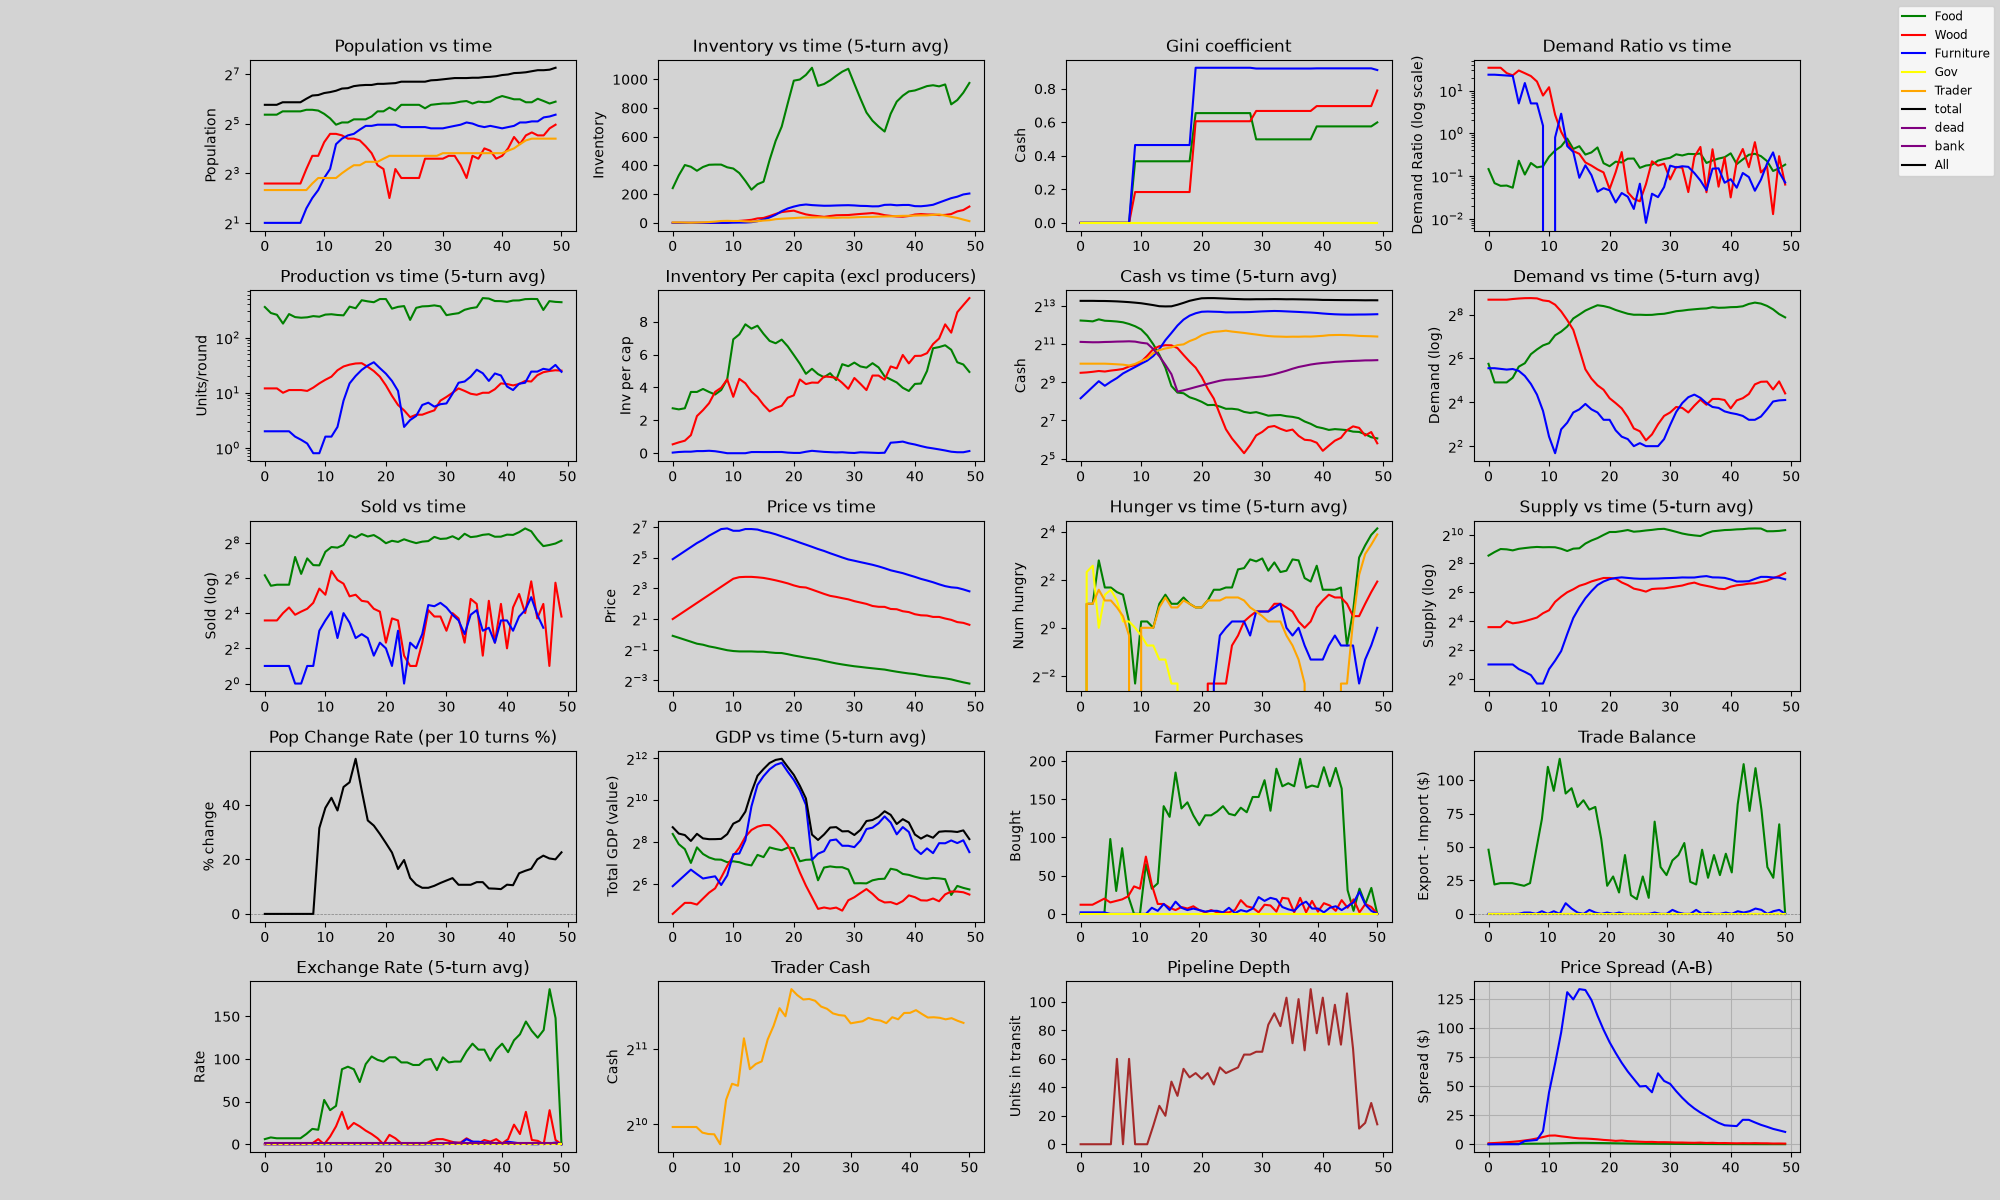
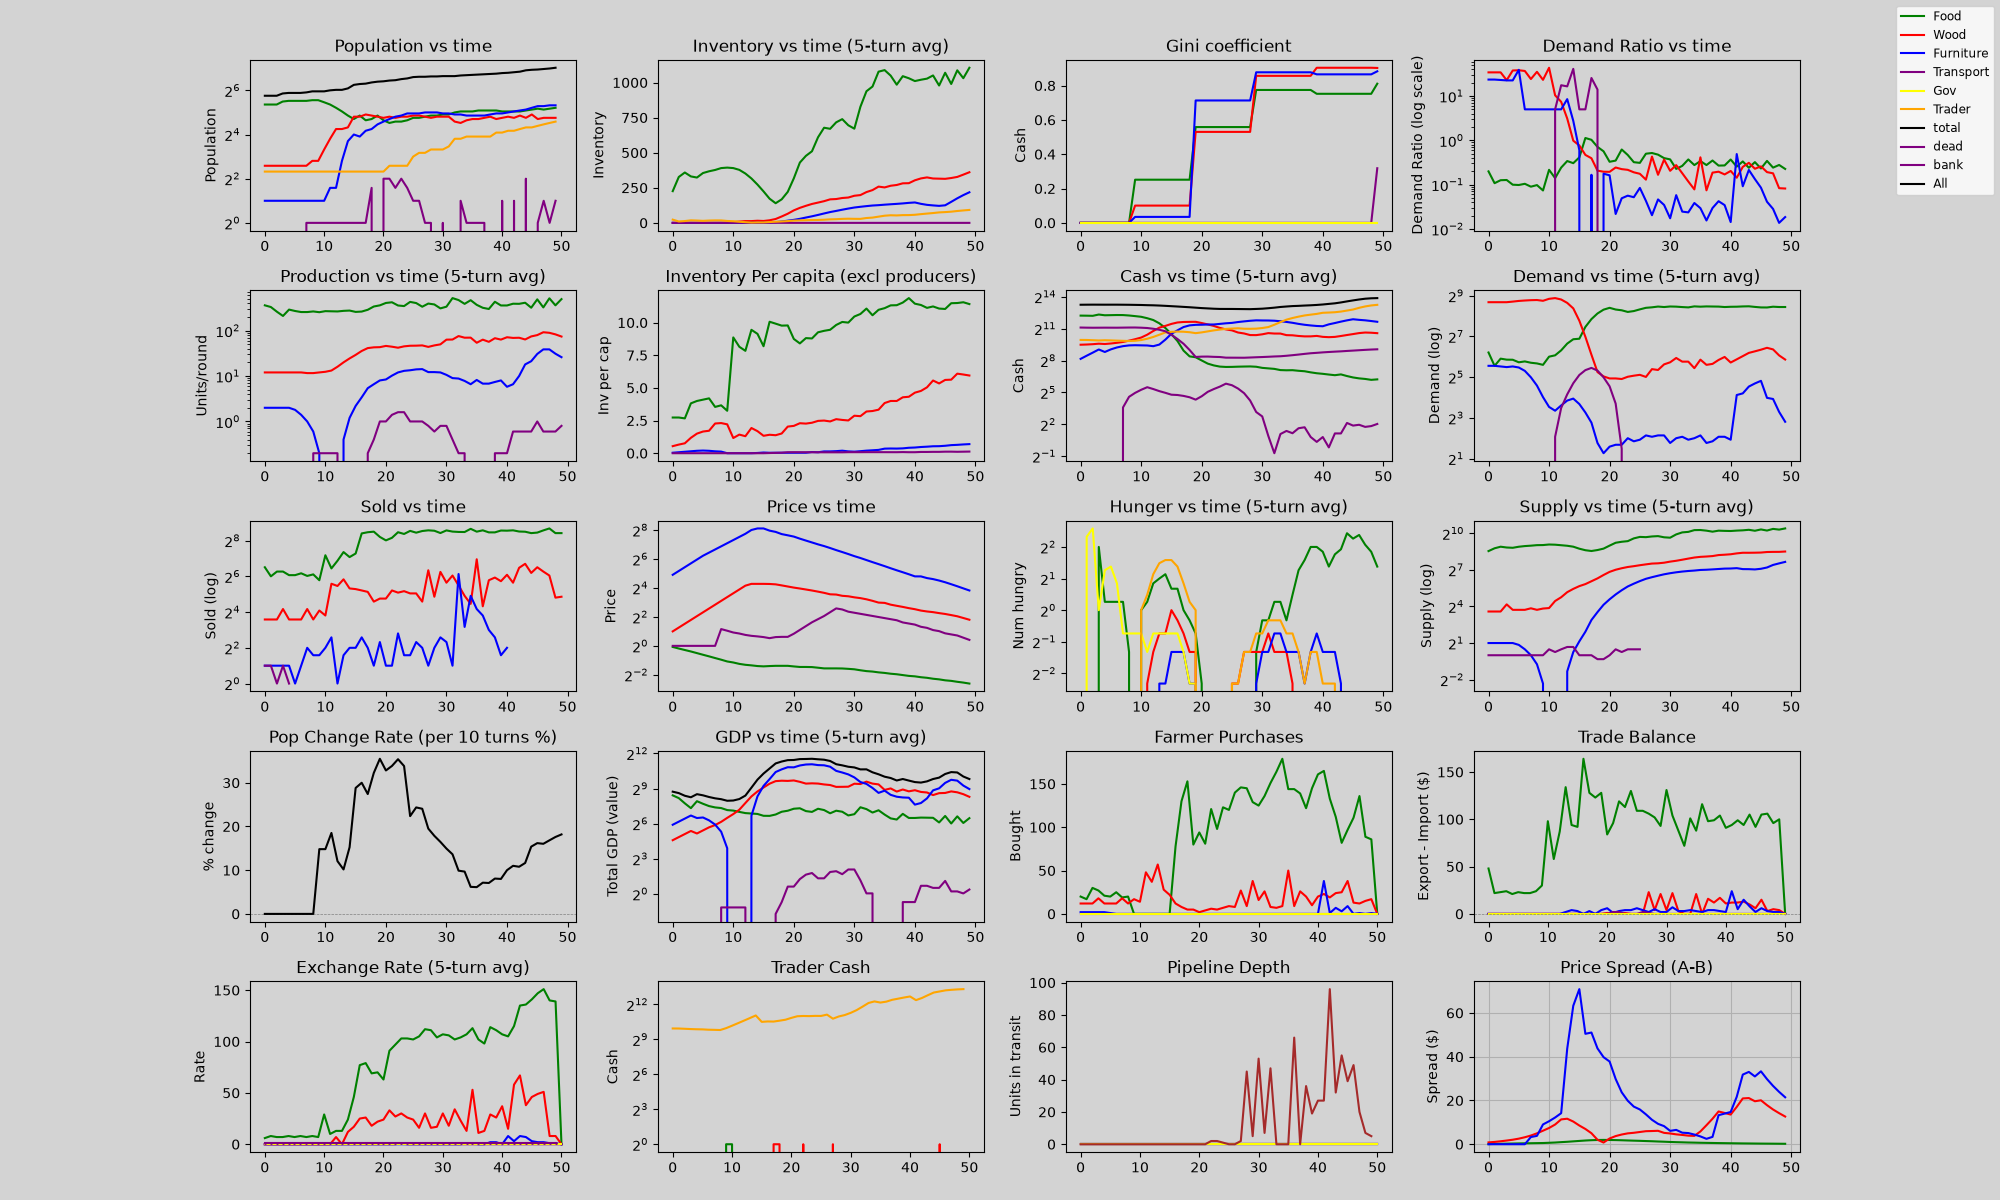
Phase 1: add Goods.transport enum, recipe, logging, and plot infrastructure
- Goods.transport added to IntEnum (value 4) with 'P' profession label
- Transport recipe: production=1, price=1, maxinv=1, capacity=10
- 8% default distribution (~4 transporters per 55-agent region)
- All log dicts (population, inventory, cash, gini, hungry, production,
  GDP, demand, supply, bought, sold, price, export/import/spread) extended
- Plot colors/labels include transport (purple)
- Agent __slots__ extended with bid_transport/ask_transport
- econsim_live luxury consumption excludes transport
- econsim_states, econsim.py, econsim_two_region: transport in goods lists
  and label dicts
- wealth_lineage: Transport added to PROF_NAMES, PROF_COLORS, PROF_ORDER

diff --git a/region.py b/region.py
@@ -48,19 +48,25 @@ _recipes_init = {
         'commodity': Goods.furniture, 'production': 1, 'input': Goods.wood,
         'numInput': 2, 'price': 25, 'maxtotalprod': 300, 'maxinv': 5,
     },
+    Goods.transport: {
+        'commodity': Goods.transport, 'production': 1, 'price': 1, 'numInput': 0,
+        'maxtotalprod': 1000, 'maxinv': 1, 'capacity': 10,
+    },
     Goods.gov: {
         'commodity': Goods.gov, 'production': 0, 'numInput': 0, 'price': 1,
         'maxtotalprod': 0, 'maxinv': 0,
     },
 }
+
 for _g, _r in _recipes_init.items():
     recipes[_g] = _r
 
 # Default profession distribution (fractions summing to <= 1.0, remainder -> gov)
 DEFAULT_PROFESSION_DISTRIBUTION = {
-    Goods.food: 0.82,
-    Goods.wood: 0.06,
-    Goods.furniture: 0.02,
+    Goods.food: 0.72,
+    Goods.wood: 0.05,
+    Goods.furniture: 0.01,
+    Goods.transport: 0.08,
 }
 
 
@@ -156,11 +162,11 @@ class Region:
         self.gini_log: dict = {}
         self.total_cash_log: list = []
         self.bank_cash_log: list = []
-        self.price_log: dict = {Goods.food: [], Goods.wood: [], Goods.furniture: []}
-        self.sold_log: dict = {Goods.food: [], Goods.wood: [], Goods.furniture: []}
+        self.price_log: dict = {Goods.food: [], Goods.wood: [], Goods.furniture: [], Goods.transport: []}
+        self.sold_log: dict = {Goods.food: [], Goods.wood: [], Goods.furniture: [], Goods.transport: []}
         self.bought_log: dict = {}
         self.gdp_log: list = []
-        self.gdp_by_profession_log: dict = {Goods.food: [], Goods.wood: [], Goods.furniture: []}
+        self.gdp_by_profession_log: dict = {Goods.food: [], Goods.wood: [], Goods.furniture: [], Goods.transport: []}
         self.total_population: list = []
         self.population_change_rate_log: list = []
         self.dead_pop: list = [0]
@@ -179,7 +185,7 @@ class Region:
         self.exchange_rate = 1.0
         self.cumulative_trade_balance = 0.0
 
-        for g in [Goods.food, Goods.wood, Goods.furniture]:
+        for g in [Goods.food, Goods.wood, Goods.furniture, Goods.transport]:
             self.export_vol[g] = []
             self.price_spread_log[g] = []
             self.export_val[g] = []
@@ -591,7 +597,7 @@ class Region:
     # ---- Trade ----
 
     def _trade(self, t):
-        trade_goods = [Goods.food, Goods.wood, Goods.furniture]
+        trade_goods = [Goods.food, Goods.wood, Goods.furniture, Goods.transport]
         all_goods_price = self.all_goods_price
         food_price = self.food_price
         self.bank.PayDepositInterest(self.agents)
@@ -613,7 +619,8 @@ class Region:
         desired_food = 16
         desired_wood = 10
         desired_furn = max(1, int(16 / max(1, recipes[Goods.furniture]['price'])))
-        desires = {Goods.food: desired_food, Goods.wood: desired_wood, Goods.furniture: desired_furn}
+        desires = {Goods.food: desired_food, Goods.wood: desired_wood,
+                   Goods.furniture: desired_furn, Goods.transport: 0}
         prices = {g: recipes[g]['price'] for g in trade_goods}
         total_asks = {g: 0 for g in trade_goods}
         total_bids = {g: 0 for g in trade_goods}
@@ -808,6 +815,9 @@ class Region:
             self.bank.Withdraw(agent, min(bank_balance, good_price * current_desired - agent.remainingCash))
 
     def _calculate_bid(self, agent, good, good_price, current_desired, agent_recipe, is_employee, mult):
+        # Transport is a producer-to-trader service: non-traders never bid.
+        if good == Goods.transport and not agent.is_trader:
+            return 0
         if agent.is_trader:
             # Traders buy food for themselves (up to 2 days' supply) — they
             # don't produce, so they must eat from the market like everyone else.
@@ -1540,12 +1550,14 @@ class Region:
             Goods.food: 'green',
             Goods.wood: 'red',
             Goods.furniture: 'blue',
+            Goods.transport: 'purple',
             Goods.gov: 'yellow',
         }
         labels = {
             Goods.food: 'Food',
             Goods.wood: 'Wood',
             Goods.furniture: 'Furniture',
+            Goods.transport: 'Transport',
             Goods.gov: 'Gov',
         }
         axis_id = 0

diff --git a/econsim_live.py b/econsim_live.py
@@ -179,6 +179,9 @@ def _consume_goods(ctx: LiveContext, agent, number_food_consumed, number_wood_co
         for luxury_good in ctx.goods:
             if luxury_good in (Goods.food, Goods.gov):
                 continue
+            # Transport is a service (not a consumable luxury good)
+            if luxury_good == Goods.transport:
+                continue
             if agent.inv_get(luxury_good, 0) > 0 and get_output_commodity(agent) != luxury_good:
                 consume_qty = min(max(1, int(mult * 0.5)),
                                   agent.inv_get(luxury_good, 0), 5)
@@ -360,11 +363,11 @@ def _handle_reproduction(ctx: LiveContext, t, agent, agents, new_agents):
         # rather than children.  Richer trader → fewer allowed children.
         if agent.is_trader:
             if wealth > cost_of_living * 6:
-                max_children = 0
-            elif wealth > cost_of_living * 3:
-                max_children = 1
-            else:
                 max_children = 2
+            elif wealth > cost_of_living * 3:
+                max_children = 4
+            else:
+                max_children = 8
             living_children = sum(1 for d in agent.descendants if d.alive)
             if living_children >= max_children:
                 return 0

diff --git a/econsim_states.py b/econsim_states.py
@@ -24,7 +24,7 @@ over_production_derate = 0.5
 
 # Shared config objects
 recipes = {}
-goods = [Goods.food, Goods.wood, Goods.furniture, Goods.gov]
+goods = [Goods.food, Goods.wood, Goods.furniture, Goods.transport, Goods.gov]
 total_production = defaultdict(int)
 agent_id_counter = 0
 governments = []
@@ -43,12 +43,12 @@ cash_log = {}
 gini_log = {}
 total_cash_log = []
 bank_cash_log = []
-price_log = {Goods.food: [], Goods.wood: [], Goods.furniture: []}
-sold_log = {Goods.food: [], Goods.wood: [], Goods.furniture: []}
+price_log = {Goods.food: [], Goods.wood: [], Goods.furniture: [], Goods.transport: []}
+sold_log = {Goods.food: [], Goods.wood: [], Goods.furniture: [], Goods.transport: []}
 bought_log = dict()
 dead_pop = [0]
 dead_starved_population = [0]
 total_population = []
 population_change_rate_log = []
 gdp_log = []
-gdp_by_profession_log = {Goods.food: [], Goods.wood: [], Goods.furniture: []}
+gdp_by_profession_log = {Goods.food: [], Goods.wood: [], Goods.furniture: [], Goods.transport: []}

diff --git a/agent.py b/agent.py
@@ -67,8 +67,8 @@ class Agent:
         'transport_delay',
         # ---- SoA slot index + cache ----
         # ---- Per-good bid/ask (set via setattr in region._trade) ----
-        'bid_food', 'bid_wood', 'bid_furniture',
-        'ask_food', 'ask_wood', 'ask_furniture',
+        'bid_food', 'bid_wood', 'bid_furniture', 'bid_transport',
+        'ask_food', 'ask_wood', 'ask_furniture', 'ask_transport',
         # ---- Inherited wealth protection (child of rich parent) ----
         '_birth_parent_wealth', '_birth_protection_until',
         # ---- SoA slot index + cache ----
@@ -124,6 +124,8 @@ class Agent:
         self._slot = -1
         self.remainingCash = 0
         self._cached_wealth = None
+        self.bid_transport = 0
+        self.ask_transport = 0
 
     def name(self):
         prof_label = profession.get(self.output, '-')

diff --git a/econsim.py b/econsim.py
@@ -73,7 +73,7 @@ for good in goods:
     cash_log[good] = []
     gini_log[good] = []
 
-price_log = {Goods.food: [], Goods.wood: [], Goods.furniture: []}
+price_log = {Goods.food: [], Goods.wood: [], Goods.furniture: [], Goods.transport: []}
 
 for prof in goods:
     bought_log[prof] = {}
@@ -668,12 +668,14 @@ def _plot_results(agents):
         Goods.food: 'green',
         Goods.wood: 'red',
         Goods.furniture: 'blue',
+        Goods.transport: 'purple',
         Goods.gov: 'yellow',
     }
     labels = {
         Goods.food: 'Food',
         Goods.wood: 'Wood',
         Goods.furniture: 'Furniture',
+        Goods.transport: 'Transport',
         Goods.gov: 'gov',
     }
     axis_id = 0

diff --git a/wealth_lineage.py b/wealth_lineage.py
@@ -35,16 +35,17 @@ PROF_NAMES = {
     Goods.food: 'Food',
     Goods.wood: 'Wood',
     Goods.furniture: 'Furniture',
+    Goods.transport: 'Transport',
     Goods.gov: 'Gov',
 }
 
 PROF_COLORS = {
     'Food': '#2ecc71', 'Wood': '#e74c3c', 'Furniture': '#3498db',
-    'Trader': '#f39c12', 'Corp': '#9b59b6', 'Gov': '#f1c40f',
-    '?': '#95a5a6',
+    'Transport': '#8e44ad', 'Trader': '#f39c12', 'Corp': '#9b59b6',
+    'Gov': '#f1c40f', '?': '#95a5a6',
 }
 
-PROF_ORDER = ['Food', 'Wood', 'Furniture', 'Trader', 'Corp', 'Gov', '?']
+PROF_ORDER = ['Food', 'Wood', 'Furniture', 'Transport', 'Trader', 'Corp', 'Gov', '?']
 
 
 # =============================================================================

diff --git a/econsim_two_region.py b/econsim_two_region.py
@@ -266,7 +266,8 @@ def main():
 
     for region in (region_a, region_b):
         print(f"\n--- {region.name} ---")
-        labels = {Goods.food: 'Food', Goods.wood: 'Wood', Goods.furniture: 'Furniture', Goods.gov: 'Gov'}
+        labels = {Goods.food: 'Food', Goods.wood: 'Wood', Goods.furniture: 'Furniture',
+                  Goods.transport: 'Transport', Goods.gov: 'Gov'}
         for g in region.goods:
             pop = region.population_log.get(g, [0])[-1] if region.population_log.get(g) else 0
             price = (region.price_log.get(g, [1.0])[-1] if g != Goods.gov and region.price_log.get(g) else 1.0)

diff --git a/goods.py b/goods.py
@@ -4,6 +4,7 @@ class Goods(IntEnum):
     food = auto()
     wood = auto()
     furniture = auto()
+    transport = auto()
     gov = auto()
     none = auto()
 
@@ -13,6 +14,7 @@ profession = {
     Goods.food: 'F',
     Goods.wood: 'W',
     Goods.furniture: 'C',
+    Goods.transport: 'P',
     Goods.gov: 'G',
     Goods.none: '-',
 }
